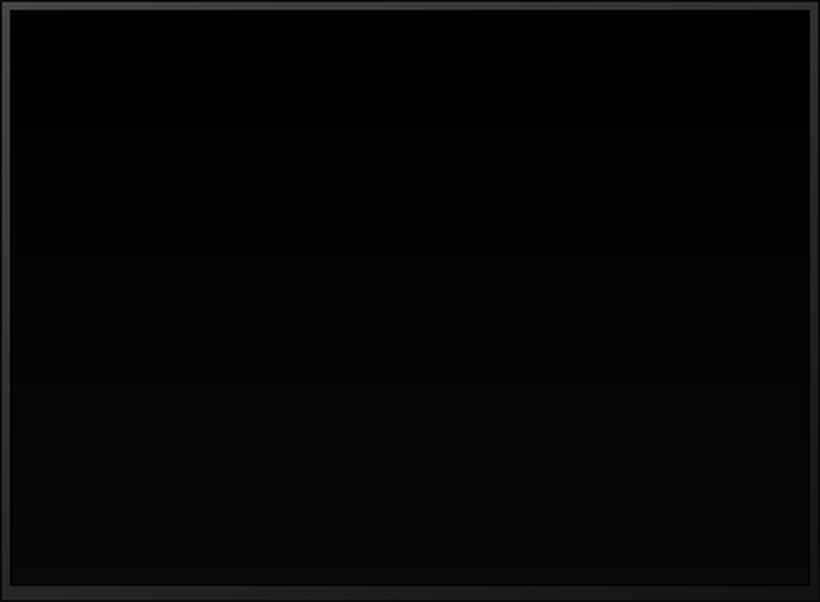
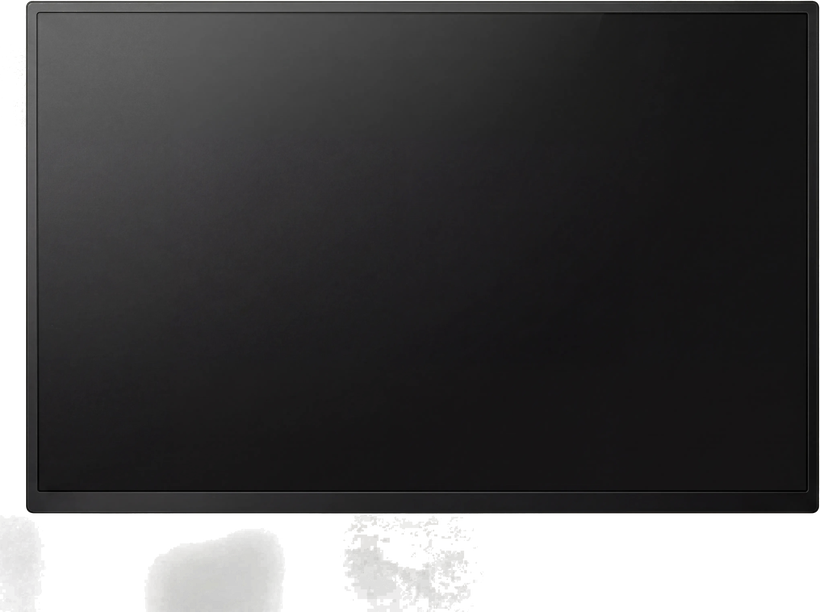
Update lounge TV asset from kv6DR studio JPEG
Bake lounge-tv-design.png with gray-backdrop key; bump version kv6DR-SLY.

diff --git a/src/components/lounge/loungeTvAssets.ts b/src/components/lounge/loungeTvAssets.ts
@@ -6,10 +6,10 @@ export const LOUNGE_CURTAIN_RIGHT_SRC = '/assets/lounge-curtain-right.jpeg';
 export const LOUNGE_TV_REMOTE_HAND_SRC = '/assets/lounge-tv-remote-hand.png';
 
 /** Bump when replacing `public/assets/lounge-tv-design.png` (`npm run lounge:bake-tv-design`). */
-export const LOUNGE_TV_DESIGN_ASSET_VERSION = 'pNu1yJzm';
+export const LOUNGE_TV_DESIGN_ASSET_VERSION = 'kv6DR-SLY';
 
 export const LOUNGE_TV_DESIGN_SRC_REMOTE =
-  'https://hyycomvcaqxxvyrfupes.supabase.co/storage/v1/object/public/live-preview/LP%20Images/pNu1yJzmL4dvFCWQy6wMl_Ueut2LUr.jpeg';
+  'https://hyycomvcaqxxvyrfupes.supabase.co/storage/v1/object/public/live-preview/LP%20Images/kv6DR-SLYFfBb8V4UPFOr_WHgmeCou.jpeg';
 
 /** Full TV bezel + off screen PNG; lounge slide renders this image (play overlay on top). */
 export const LOUNGE_TV_DESIGN_SRC = `/assets/lounge-tv-design.png?v=${LOUNGE_TV_DESIGN_ASSET_VERSION}`;
